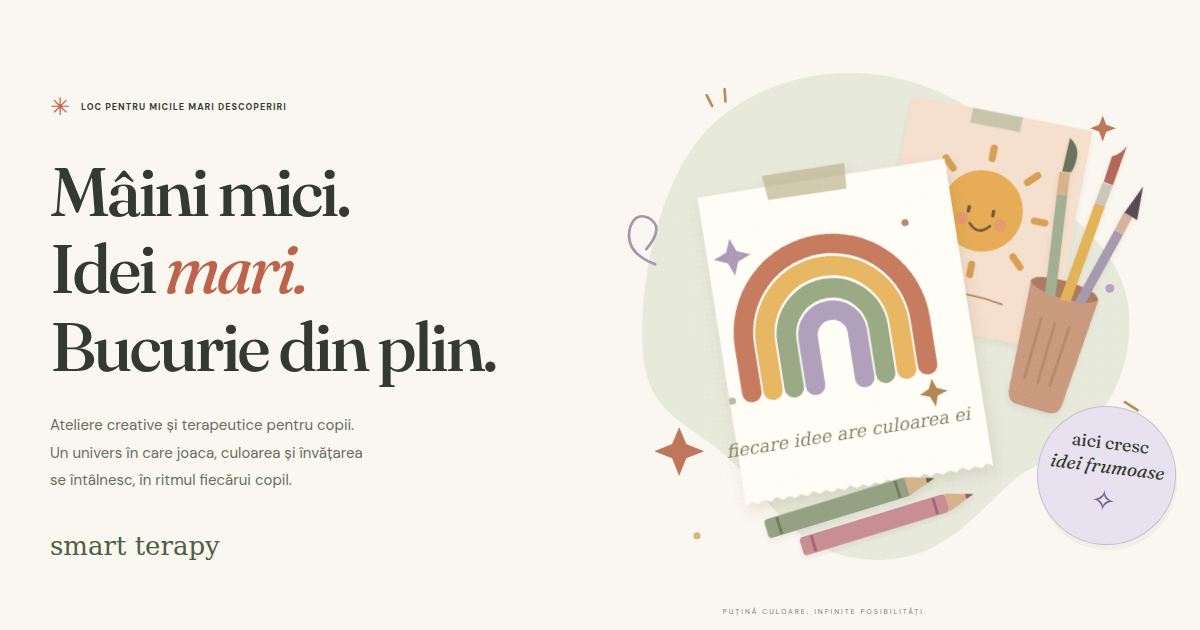
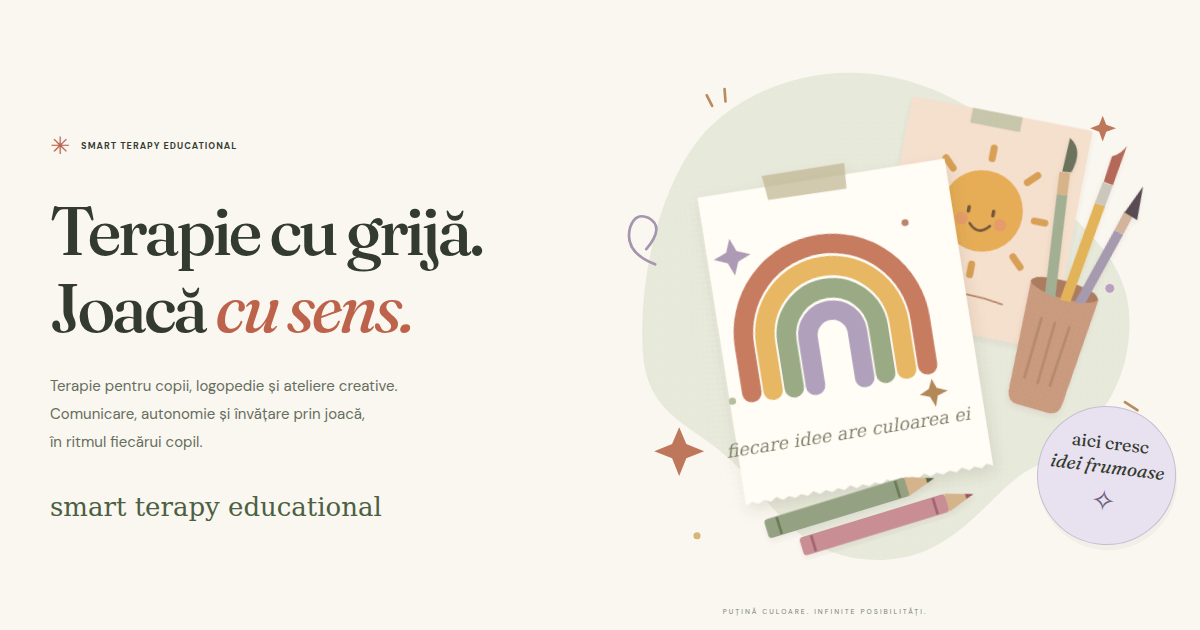
Add Educational branding and nine child therapy services

diff --git a/public/index.html b/public/index.html
@@ -4,10 +4,10 @@
   <meta charset="utf-8">
   <meta name="viewport" content="width=device-width, initial-scale=1">
   <meta name="theme-color" content="#faf7f0">
-  <title>Smart Terapy — Joacă, descoperă, creează.</title>
-  <meta name="description" content="Smart Terapy: ateliere creative și terapeutice pentru copii și activități educaționale pentru școli și grădinițe în programul Școala Altfel. Descoperă idei de ateliere și cere detalii.">
-  <meta property="og:title" content="Smart Terapy — Joacă, descoperă, creează.">
-  <meta property="og:description" content="O lume de culoare, curiozitate și idei mari. Ateliere pentru copii, părinți, școli și grădinițe.">
+  <title>Smart Terapy Educational — Terapie pentru copii și logopedie</title>
+  <meta name="description" content="Smart Terapy Educational: terapie pentru copii, logopedie, ABA, PECS și activități pentru dezvoltare. Ateliere creative și programe Școala Altfel pentru școli și grădinițe.">
+  <meta property="og:title" content="Smart Terapy Educational — Terapie pentru copii și logopedie">
+  <meta property="og:description" content="Terapie pentru copii, logopedie și învățare prin joacă. Descoperă serviciile Smart Terapy Educational și atelierele pentru copii.">
   <meta property="og:type" content="website">
   <meta property="og:url" content="https://mcapostol.github.io/smart-terapy-educational/">
   <meta property="og:image" content="https://mcapostol.github.io/smart-terapy-educational/assets/social-card.png">
@@ -19,24 +19,76 @@
 <body>
 <a class="skip-link" href="#main">Mergi la conținut</a>
 <header class="site-header">
-  <a class="brand" href="#" aria-label="Smart Terapy — Acasă"><img src="assets/instagram-profile.jpg" alt="" width="54" height="54"><span>smart <b>terapy</b><small>EDUCATIONAL · CREATIVE · PLAYFUL</small></span></a>
+  <a class="brand" href="#" aria-label="Smart Terapy Educational — Acasă"><img src="assets/instagram-profile.jpg" alt="" width="54" height="54"><span>smart <b>terapy</b> <small>educational</small></span></a>
   <button id="menu-toggle" class="menu-toggle" type="button" aria-expanded="false" aria-controls="site-nav" aria-label="Deschide meniul"><span></span><span></span></button>
-  <nav id="site-nav" aria-label="Navigare principală"><a href="#poveste">Povestea noastră</a><a href="#ateliere">Ateliere</a><a href="#scoala-altfel">Școala Altfel</a><a href="#tarife">Tarife</a><a class="button button-small" href="#contact">Hai să povestim <span aria-hidden="true">↗</span></a></nav>
+  <nav id="site-nav" aria-label="Navigare principală"><a href="#poveste">Despre noi</a><a href="#terapii">Terapii</a><a href="#ateliere">Ateliere</a><a href="#scoala-altfel">Școala Altfel</a><a href="#tarife">Tarife</a><a class="button button-small" href="#contact">Hai să povestim <span aria-hidden="true">↗</span></a></nav>
 </header>
 <main id="main">
 <section class="hero wrap" aria-labelledby="hero-title">
-  <div class="hero-copy"><p class="eyebrow"><span class="little-sun" aria-hidden="true">✳</span> LOC PENTRU MICILE MARI DESCOPERIRI</p>
-    <h1 id="hero-title">Mâini mici.<br>Idei <em>mari.</em><br>Bucurie din plin.</h1>
-    <p class="hero-description">Ateliere creative și terapeutice pentru copii.<br>Un univers în care joaca, culoarea și învățarea<br class="desktop-break"> se întâlnesc, în ritmul fiecărui copil.</p>
-    <div class="hero-actions"><a class="button" href="#ateliere">Descoperă atelierele <span aria-hidden="true">↗</span></a><a class="text-link" href="#scoala-altfel">Pentru școli și grădinițe <span aria-hidden="true">→</span></a></div>
+  <div class="hero-copy"><p class="eyebrow"><span class="little-sun" aria-hidden="true">✳</span> SMART TERAPY EDUCATIONAL</p>
+    <h1 id="hero-title">Terapie cu grijă.<br>Joacă <em>cu sens.</em></h1>
+    <p class="hero-description">Terapie pentru copii, logopedie și ateliere creative.<br>Comunicare, autonomie și învățare prin joacă,<br class="desktop-break"> în ritmul fiecărui copil.</p>
+    <div class="hero-actions"><a class="button" href="#terapii">Descoperă terapiile <span aria-hidden="true">↗</span></a><a class="text-link" href="#scoala-altfel">Pentru școli și grădinițe <span aria-hidden="true">→</span></a></div>
     <div class="hero-footnote"><span class="hand-heart" aria-hidden="true">♡</span><p>Mai multă curiozitate.<br><strong>Mai mult loc pentru a fi tu.</strong></p></div>
   </div>
   <div class="hero-art"><img src="assets/creative-world.svg" alt="Ilustrație: un soare vesel, un curcubeu, pensule și forme colorate pe masa de creație." width="680" height="680" fetchpriority="high"><span class="art-sticker">aici cresc<br><em>idei frumoase</em><span aria-hidden="true">✧</span></span><span class="art-caption">PUȚINĂ CULOARE. INFINITE POSIBILITĂȚI.</span></div>
 </section>
 <div class="values-ribbon" aria-label="Valorile atelierelor"><div class="wrap"><span>Joacă cu sens</span><i aria-hidden="true">✳</i><span>Curaj de a crea</span><i aria-hidden="true">✳</i><span>Emoții în culori</span><i aria-hidden="true">✳</i><span>Învățare prin descoperire</span></div></div>
 <section class="intro wrap section" id="poveste">
-  <div><p class="eyebrow">BUN VENIT LA SMART TERAPY</p><h2>Fiecare copil are<br>o lume de <em>exprimat.</em></h2></div>
-  <div class="intro-copy"><p>O pată de culoare poate fi începutul unei povești. O bucată de lut, o idee care prinde formă. Iar un joc, o ocazie de a descoperi ceva nou.</p><p>Smart Terapy aduce împreună ateliere creative și terapeutice pentru copii și activități educaționale pentru școli și grădinițe, inclusiv în programul <strong>„Școala Altfel”</strong>.</p><a class="text-link" href="https://www.instagram.com/smart_terapy_educational/" target="_blank" rel="noopener noreferrer">Cunoaște-ne pe Instagram <span aria-hidden="true">↗</span></a></div>
+  <div><p class="eyebrow">BUN VENIT LA SMART TERAPY EDUCATIONAL</p><h2>Fiecare copil are<br>o lume de <em>exprimat.</em></h2></div>
+  <div class="intro-copy"><p>O pată de culoare poate fi începutul unei povești. O bucată de lut, o idee care prinde formă. Iar un joc, o ocazie de a descoperi ceva nou.</p><p>Smart Terapy Educational aduce împreună <strong>terapia pentru copii, logopedia și învățarea prin joacă</strong>. Alături de serviciile de terapie, descoperim lumea prin ateliere creative și activități pentru școli și grădinițe, inclusiv în programul <strong>„Școala Altfel”</strong>.</p><a class="text-link" href="https://www.instagram.com/smart_terapy_educational/" target="_blank" rel="noopener noreferrer">Cunoaște-ne pe Instagram <span aria-hidden="true">↗</span></a></div>
+</section>
+<section class="therapies wrap section" id="terapii" aria-labelledby="therapies-title">
+  <div class="section-heading"><div><p class="eyebrow">SPRIJIN PENTRU FIECARE PAS</p><h2 id="therapies-title">Terapie pentru copii.<br><em>Cu grijă pentru cine sunt.</em></h2></div><p>Comunicare, autonomie, emoții și relații.<br>Servicii adaptate nevoilor fiecărui copil.</p></div>
+  <p class="therapy-intro">De la logopedie și comunicare prin imagini, la joacă, explorare senzorială și abilități sociale. Împreună cu echipa, discutăm nevoile copilului și pașii potriviți pentru el.</p>
+  <div class="therapy-grid">
+    <article class="therapy-card therapy-rose">
+      <div class="therapy-card-top"><span class="therapy-category">COMPORTAMENT & ÎNVĂȚARE</span><span class="therapy-number" aria-hidden="true">01</span></div>
+      <h3>ABA</h3><p class="therapy-fullname">Applied Behavior Analysis</p>
+      <p class="therapy-description">Abordare bazată pe analiza comportamentului și pe întărire pozitivă, pentru exersarea abilităților de comunicare, autonomie și învățare.</p>
+    </article>
+    <article class="therapy-card therapy-blush">
+      <div class="therapy-card-top"><span class="therapy-category">COMUNICARE PRIN IMAGINI</span><span class="therapy-number" aria-hidden="true">02</span></div>
+      <h3>PECS</h3><p class="therapy-fullname">Picture Exchange Communication System</p>
+      <p class="therapy-description">Comunicarea cu ajutorul imaginilor. Un sistem prin care copilul învață să folosească schimbul de imagini pentru a exprima cereri și a comunica.</p>
+    </article>
+    <article class="therapy-card therapy-lilac">
+      <div class="therapy-card-top"><span class="therapy-category">LIMBAJ & COMUNICARE</span><span class="therapy-number" aria-hidden="true">03</span></div>
+      <h3>Logopedia</h3>
+      <p class="therapy-description">Exerciții pentru înțelegerea și folosirea limbajului, vorbire și comunicare nonverbală, adaptate nevoilor de comunicare ale copilului.</p>
+    </article>
+    <article class="therapy-card therapy-aqua">
+      <div class="therapy-card-top"><span class="therapy-category">AUTONOMIE & COORDONARE</span><span class="therapy-number" aria-hidden="true">04</span></div>
+      <h3>Terapia ocupațională</h3>
+      <p class="therapy-description">Activități pentru deprinderi de zi cu zi, precum îmbrăcatul și îngrijirea personală, alături de exerciții de motricitate fină și coordonare.</p>
+    </article>
+    <article class="therapy-card therapy-blue">
+      <div class="therapy-card-top"><span class="therapy-category">SIMȚURI & EXPLORARE</span><span class="therapy-number" aria-hidden="true">05</span></div>
+      <h3>Terapia de integrare senzorială</h3>
+      <p class="therapy-description">Activități centrate pe felul în care copilul percepe și răspunde la stimuli precum lumina, sunetele și texturile, adaptate profilului său senzorial.</p>
+    </article>
+    <article class="therapy-card therapy-mint">
+      <div class="therapy-card-top"><span class="therapy-category">JOACĂ & CONECTARE</span><span class="therapy-number" aria-hidden="true">06</span></div>
+      <h3>Ludoterapia</h3>
+      <p class="therapy-description">Joacă structurată și ghidată de un terapeut, pentru exersarea abilităților de joc, de comunicare și de interacțiune socială.</p>
+    </article>
+    <article class="therapy-card therapy-sage">
+      <div class="therapy-card-top"><span class="therapy-category">EMOȚII & AUTOREGLARE</span><span class="therapy-number" aria-hidden="true">07</span></div>
+      <h3>Terapia cognitiv-comportamentală</h3>
+      <p class="therapy-description">Lucru asupra legăturii dintre gânduri, emoții și comportamente, cu strategii de autoreglare, gestionare a anxietății și rezolvare a problemelor.</p>
+    </article>
+    <article class="therapy-card therapy-green">
+      <div class="therapy-card-top"><span class="therapy-category">MUZICĂ & EXPRESIE</span><span class="therapy-number" aria-hidden="true">08</span></div>
+      <h3>Meloterapia și art-terapia</h3>
+      <p class="therapy-description">Muzica și expresia artistică devin modalități creative de explorare și exprimare a emoțiilor, de comunicare și de interacțiune.</p>
+    </article>
+    <article class="therapy-card therapy-yellow">
+      <div class="therapy-card-top"><span class="therapy-category">RELAȚII & COOPERARE</span><span class="therapy-number" aria-hidden="true">09</span></div>
+      <h3>Terapia de grup pentru abilități sociale</h3>
+      <p class="therapy-description">Interacțiuni ghidate cu alți copii și adulți, în care se exersează comunicarea, cooperarea și abilitățile sociale în situații de grup.</p>
+    </article>
+  </div>
+  <div class="therapy-next"><div><h3>De unde începem?</h3><p>Scrie-ne pentru o discuție inițială. Obiectivele, formatul, frecvența și tariful ședințelor se stabilesc direct cu echipa.</p></div><a class="button" href="https://www.instagram.com/smart_terapy_educational/" target="_blank" rel="noopener noreferrer">Discută cu echipa <span aria-hidden="true">↗</span></a></div>
 </section>
 <section class="workshops wrap section" id="ateliere">
   <div class="section-heading"><div><p class="eyebrow">MICILE MÂINI, ÎN ELEMENTUL LOR</p><h2>Ce creăm <em>împreună?</em></h2></div><p>Idei de ateliere pentru minți curioase.<br>Formatul se stabilește împreună cu echipa.</p></div>
@@ -49,12 +101,12 @@
 </section>
 <section class="school-section" id="scoala-altfel"><div class="wrap school-inner"><div class="school-art" aria-hidden="true"><span class="school-star">✳</span><div class="notebook"><span>o altfel de zi la școală</span><strong>Azi avem<br>oră de<br><em>curiozitate.</em></strong><div class="notebook-doodles">✎ <span>♡</span> ✧</div><small>mai puțin „trebuie”, mai mult „hai să încercăm!”</small></div><span class="pencil"></span></div><div class="school-copy"><p class="eyebrow">PENTRU ȘCOLI & GRĂDINIȚE</p><h2>Școala Altfel.<br><em>Chiar altfel.</em></h2><p>O zi în care întrebările sunt binevenite, mâinile sunt ocupate, iar imaginația are loc în orar.</p><p>Propunem ateliere creative adaptate temei clasei. Vârsta copiilor, materialele, locația și calendarul se discută cu echipa înainte de confirmare.</p><ul class="check-list"><li>Teme creative pentru grupul vostru</li><li>Propunere de activitate și materiale</li><li>Format discutat cu profesorul sau educatorul</li></ul><a class="button" href="#calculator">Calculează pentru clasa ta <span aria-hidden="true">↗</span></a></div></div></section>
 <section class="steps wrap section"><div class="section-heading"><div><p class="eyebrow">DE LA „NE-AR PLĂCEA” LA „HAI!”</p><h2>Totul începe cu <em>o conversație.</em></h2></div></div><div class="steps-grid"><article><span>01</span><h3>Ne spui ce vă doriți</h3><p>Alege o idee de atelier și spune-ne vârsta copiilor, numărul participanților și perioada.</p></article><article><span>02</span><h3>Găsim formula potrivită</h3><p>Echipa confirmă activitatea, locația, materialele necesare și oferta finală.</p></article><article><span>03</span><h3>Facem loc creativității</h3><p>După confirmarea directă a programării, aventura poate începe.</p></article></div></section>
-<section class="pricing-section" id="tarife"><div class="wrap section"><div class="section-heading"><div><p class="eyebrow">PLANURI MICI, CLARITATE MARE</p><h2>Loc pentru joacă.<br><em>Și în buget.</em></h2></div><p>O propunere de tarife simplă,<br>pentru a vă face o primă idee.</p></div><p class="pricing-notice"><strong>Tarife orientative propuse, neconfirmate de Smart Terapy.</strong> Programele și prețul final se stabilesc direct cu echipa. Valorile de mai jos nu reprezintă o ofertă fermă sau o rezervare.</p><div class="price-list"><article><div><span class="price-index">01</span><div><h3>Atelier creativ</h3><p>60 min · grup propus de 6–20 copii</p></div></div><p class="price"><strong>55</strong> lei <small>/ copil / atelier</small></p></article><article><div><span class="price-index">02</span><div><h3>Explorare senzorială & emoții</h3><p>60 min · grup propus de 6–20 copii</p></div></div><p class="price"><strong>60</strong> lei <small>/ copil / atelier</small></p></article><article class="featured-price"><div><span class="price-index">03</span><div><h3>Școala Altfel <span class="tag">PENTRU CLASE</span></h3><p>60 min · grup propus de 15–30 copii</p></div></div><p class="price"><strong>45</strong> lei <small>/ copil / atelier</small></p></article><article><div><span class="price-index">04</span><div><h3>Copil & părinte</h3><p>75 min · grup propus de 6–15 perechi</p></div></div><p class="price"><strong>85</strong> lei <small>/ pereche / atelier</small></p></article></div><p class="price-footnote">Propunerea include materialele creative de bază. Deplasarea, spațiul și cerințele speciale se cotează separat, dacă este cazul. Pentru 4 ateliere, calculatorul aplică o reducere propusă de 10%.</p>
-<div class="calculator" id="calculator"><div class="calculator-copy"><p class="eyebrow">HAI SĂ FACEM UN MIC CALCUL</p><h2>Atelierul vostru,<br><em>în câteva clicuri.</em></h2><p>Alege formatul și numărul de participanți. Vei obține o estimare și un mesaj de trimis echipei pe Instagram.</p><span class="calculator-flower" aria-hidden="true">✳</span><small>Alegerile se păstrează doar în acest browser.<br>Nu cerem datele copiilor.</small></div><div class="calculator-panel"><noscript><p>Calculatorul necesită JavaScript. Poți consulta tarifele de mai sus și contacta echipa direct pe Instagram.</p></noscript><form id="atelier-form"><label for="atelier-type">Ce v-ar plăcea să explorați?</label><select id="atelier-type" name="type"><option value="creativ">Micul atelier de creație</option><option value="senzorial">Explorare senzorială & emoții</option><option value="scoala">Școala Altfel</option><option value="parinte">Copil & părinte</option></select><div class="form-row"><div><label for="participants">Participanți / perechi</label><input id="participants" name="participants" type="number" min="6" max="20" step="1" value="12" required inputmode="numeric" aria-describedby="estimate-error"></div><div><label for="sessions">Câte ateliere?</label><select id="sessions" name="sessions"><option value="1">1 atelier</option><option value="4">4 ateliere (−10%)</option></select></div></div><p id="estimate-error" class="form-error" role="alert"></p></form><div class="estimate" aria-live="polite" aria-atomic="true"><span>TOTAL ORIENTATIV</span><strong id="estimate-total">660 lei</strong><p id="estimate-unit">55 lei / copil / atelier</p><small id="estimate-summary">12 copii · 1 atelier</small></div><details class="message-preview"><summary>Vezi mesajul pentru echipă</summary><label class="sr-only" for="request-message">Mesaj de copiat pentru Instagram</label><textarea id="request-message" readonly rows="7">Bună! Mă interesează un atelier creativ pentru 12 copii. Aș dori să discutăm detaliile și oferta finală.</textarea></details><div class="calculator-actions"><button id="copy-request" type="button" class="button">1. Copiază mesajul <span aria-hidden="true">⧉</span></button><a id="instagram-request" class="button button-outline" href="https://www.instagram.com/smart_terapy_educational/" target="_blank" rel="noopener noreferrer">2. Deschide Instagram <span aria-hidden="true">↗</span></a></div><p id="copy-status" class="copy-status" role="status"></p><p class="estimate-disclaimer">Mesajul nu se trimite automat. Lipește-l în conversația cu echipa. Programarea și tariful devin valabile numai după confirmarea acesteia.</p></div></div>
+<section class="pricing-section" id="tarife"><div class="wrap section"><div class="section-heading"><div><p class="eyebrow">TARIFE PENTRU ATELIERE</p><h2>Loc pentru joacă.<br><em>Și în buget.</em></h2></div><p>Estimări pentru activitățile creative.<br>Tarifele de terapie se discută cu echipa.</p></div><p class="pricing-notice"><strong>Tarife orientative propuse, neconfirmate de Smart Terapy Educational.</strong> Programele și prețul final se stabilesc direct cu echipa. Valorile de mai jos nu reprezintă o ofertă fermă sau o rezervare.</p><div class="price-list"><article><div><span class="price-index">01</span><div><h3>Atelier creativ</h3><p>60 min · grup propus de 6–20 copii</p></div></div><p class="price"><strong>55</strong> lei <small>/ copil / atelier</small></p></article><article><div><span class="price-index">02</span><div><h3>Explorare senzorială & emoții</h3><p>60 min · grup propus de 6–20 copii</p></div></div><p class="price"><strong>60</strong> lei <small>/ copil / atelier</small></p></article><article class="featured-price"><div><span class="price-index">03</span><div><h3>Școala Altfel <span class="tag">PENTRU CLASE</span></h3><p>60 min · grup propus de 15–30 copii</p></div></div><p class="price"><strong>45</strong> lei <small>/ copil / atelier</small></p></article><article><div><span class="price-index">04</span><div><h3>Copil & părinte</h3><p>75 min · grup propus de 6–15 perechi</p></div></div><p class="price"><strong>85</strong> lei <small>/ pereche / atelier</small></p></article></div><p class="price-footnote">Propunerea include materialele creative de bază. Deplasarea, spațiul și cerințele speciale se cotează separat, dacă este cazul. Pentru 4 ateliere, calculatorul aplică o reducere propusă de 10%.</p>
+<div class="calculator" id="calculator"><div class="calculator-copy"><p class="eyebrow">HAI SĂ FACEM UN MIC CALCUL</p><h2>Atelierul vostru,<br><em>în câteva clicuri.</em></h2><p>Alege formatul și numărul de participanți la atelier. Vei obține o estimare și un mesaj de trimis echipei pe Instagram.</p><span class="calculator-flower" aria-hidden="true">✳</span><small>Alegerile se păstrează doar în acest browser.<br>Nu cerem datele copiilor.</small></div><div class="calculator-panel"><noscript><p>Calculatorul necesită JavaScript. Poți consulta tarifele de mai sus și contacta echipa direct pe Instagram.</p></noscript><form id="atelier-form"><label for="atelier-type">Ce v-ar plăcea să explorați?</label><select id="atelier-type" name="type"><option value="creativ">Micul atelier de creație</option><option value="senzorial">Explorare senzorială & emoții</option><option value="scoala">Școala Altfel</option><option value="parinte">Copil & părinte</option></select><div class="form-row"><div><label for="participants">Participanți / perechi</label><input id="participants" name="participants" type="number" min="6" max="20" step="1" value="12" required inputmode="numeric" aria-describedby="estimate-error"></div><div><label for="sessions">Câte ateliere?</label><select id="sessions" name="sessions"><option value="1">1 atelier</option><option value="4">4 ateliere (−10%)</option></select></div></div><p id="estimate-error" class="form-error" role="alert"></p></form><div class="estimate" aria-live="polite" aria-atomic="true"><span>TOTAL ORIENTATIV</span><strong id="estimate-total">660 lei</strong><p id="estimate-unit">55 lei / copil / atelier</p><small id="estimate-summary">12 copii · 1 atelier</small></div><details class="message-preview"><summary>Vezi mesajul pentru echipă</summary><label class="sr-only" for="request-message">Mesaj de copiat pentru Instagram</label><textarea id="request-message" readonly rows="7">Bună! Mă interesează un atelier creativ pentru 12 copii. Aș dori să discutăm detaliile și oferta finală.</textarea></details><div class="calculator-actions"><button id="copy-request" type="button" class="button">1. Copiază mesajul <span aria-hidden="true">⧉</span></button><a id="instagram-request" class="button button-outline" href="https://www.instagram.com/smart_terapy_educational/" target="_blank" rel="noopener noreferrer">2. Deschide Instagram <span aria-hidden="true">↗</span></a></div><p id="copy-status" class="copy-status" role="status"></p><p class="estimate-disclaimer">Mesajul nu se trimite automat. Lipește-l în conversația cu echipa. Programarea și tariful devin valabile numai după confirmarea acesteia.</p></div></div>
 </div></section>
-<section class="faq wrap section"><div><p class="eyebrow">POATE TE ÎNTREBI…</p><h2>Curiozități<br><em>firești.</em></h2><p>Ai o altă întrebare?<br>Ne găsești pe Instagram.</p></div><div class="faq-items"><details><summary>Pentru ce vârste sunt atelierele?<span aria-hidden="true">+</span></summary><p>Activitățile se pot gândi diferit pentru preșcolari și școlari. Spune echipei vârstele copiilor, pentru a confirma un format și materiale potrivite grupului.</p></details><details><summary>Unde au loc activitățile?<span aria-hidden="true">+</span></summary><p>Locația și aria de deplasare se confirmă direct cu Smart Terapy. Pentru o activitate în școală sau grădiniță, include localitatea și spațiul disponibil în mesaj.</p></details><details><summary>Ce înseamnă „ateliere terapeutice”?<span aria-hidden="true">+</span></summary><p>Aceasta este denumirea folosită în prezentarea Smart Terapy de pe Instagram. Atelierele propuse aici sunt activități creative și educaționale; site-ul nu prezintă servicii clinice și nu promite rezultate medicale. Întreabă echipa despre formatul și calificările relevante pentru nevoile copilului.</p></details><details><summary>Prețul din calculator este cel final?<span aria-hidden="true">+</span></summary><p>Nu. Este un calcul pe baza unor tarife propuse, încă neconfirmate de Smart Terapy. Echipa va confirma disponibilitatea, ce include activitatea și costul final înainte de programare.</p></details><details><summary>Cum fac o programare?<span aria-hidden="true">+</span></summary><p>Copiază mesajul din calculator sau scrie direct contului @smart_terapy_educational pe Instagram. Adaugă perioada dorită, vârsta participanților și localitatea. Nu trimite informații medicale sau date sensibile în cererea inițială.</p></details></div></section>
-<section class="contact-section wrap" id="contact"><span class="contact-flower" aria-hidden="true">✳</span><p class="eyebrow">O IDEE FRUMOASĂ ÎNCEPE CU „BUNĂ!”</p><h2>Facem loc unei noi<br><em>aventuri creative?</em></h2><p>Pentru copilul tău, pentru clasa ta sau pentru un pic de timp împreună.<br>Scrie-ne și hai să vedem ce putem crea.</p><a class="button" href="https://www.instagram.com/smart_terapy_educational/" target="_blank" rel="noopener noreferrer">Scrie-ne pe Instagram <span aria-hidden="true">↗</span></a><a class="instagram-handle" href="https://www.instagram.com/smart_terapy_educational/" target="_blank" rel="noopener noreferrer">@smart_terapy_educational</a></section>
+<section class="faq wrap section"><div><p class="eyebrow">POATE TE ÎNTREBI…</p><h2>Curiozități<br><em>firești.</em></h2><p>Ai o altă întrebare?<br>Ne găsești pe Instagram.</p></div><div class="faq-items"><details><summary>Pentru ce vârste sunt atelierele?<span aria-hidden="true">+</span></summary><p>Activitățile se pot gândi diferit pentru preșcolari și școlari. Spune echipei vârstele copiilor, pentru a confirma un format și materiale potrivite grupului.</p></details><details><summary>Unde au loc activitățile?<span aria-hidden="true">+</span></summary><p>Locația și aria de deplasare se confirmă direct cu Smart Terapy Educational. Pentru o activitate în școală sau grădiniță, include localitatea și spațiul disponibil în mesaj.</p></details><details><summary>Cum alegem terapia potrivită copilului?<span aria-hidden="true">+</span></summary><p>Primul pas este o discuție cu echipa despre nevoile copilului. Obiectivele, tipul intervenției și frecvența ședințelor se stabilesc individual. În secțiunea <a href="#terapii">Terapii</a> găsești toate cele nouă servicii prezentate.</p></details><details><summary>Calculatorul include și ședințele de terapie?<span aria-hidden="true">+</span></summary><p>Calculatorul este destinat atelierelor creative și programelor de grup, pe baza unor tarife orientative propuse. Pentru terapie și logopedie, cere direct echipei detalii despre ședințe și tarife. Disponibilitatea și prețul final se confirmă înainte de programare.</p></details><details><summary>Cum fac o programare?<span aria-hidden="true">+</span></summary><p>Pentru terapie, scrie direct echipei. Pentru ateliere, poți copia și mesajul din calculator. Ne găsești la contul @smart_terapy_educational pe Instagram. Adaugă perioada dorită, vârsta participanților și localitatea. Nu trimite informații medicale sau date sensibile în cererea inițială.</p></details></div></section>
+<section class="contact-section wrap" id="contact"><span class="contact-flower" aria-hidden="true">✳</span><p class="eyebrow">PRIMUL PAS ÎNCEPE CU „BUNĂ!”</p><h2>Fiecare pas contează.<br><em>Îl facem împreună?</em></h2><p>Pentru terapie, logopedie sau un atelier plin de curiozitate.<br>Scrie-ne și povestește-ne ce vă doriți pentru copilul sau grupul vostru.</p><a class="button" href="https://www.instagram.com/smart_terapy_educational/" target="_blank" rel="noopener noreferrer">Scrie-ne pe Instagram <span aria-hidden="true">↗</span></a><a class="instagram-handle" href="https://www.instagram.com/smart_terapy_educational/" target="_blank" rel="noopener noreferrer">@smart_terapy_educational</a></section>
 </main>
-<footer class="wrap"><a class="footer-brand" href="#">smart <b>terapy</b><span>Joacă. Descoperă. Creează.</span></a><div><p>Ateliere creative și terapeutice pentru copii.<br>Activități educaționale pentru școli și grădinițe.</p><a href="https://www.instagram.com/smart_terapy_educational/" target="_blank" rel="noopener noreferrer">Instagram ↗</a></div><div class="footer-bottom"><span>© 2026 Smart Terapy</span><span>Cu loc pentru fiecare idee.</span><a href="confidentialitate.html">Confidențialitate</a></div></footer>
+<footer class="wrap"><a class="footer-brand" href="#">smart <b>terapy</b> <small class="brand-educational">educational</small><span>Terapie. Comunicare. Joacă.</span></a><div><p>Terapie pentru copii, logopedie și ateliere creative.<br>Activități educaționale pentru școli și grădinițe.</p><a href="https://www.instagram.com/smart_terapy_educational/" target="_blank" rel="noopener noreferrer">Instagram ↗</a></div><div class="footer-bottom"><span>© 2026 Smart Terapy Educational</span><span>Cu loc pentru fiecare idee.</span><a href="confidentialitate.html">Confidențialitate</a></div></footer>
 </body>
 </html>

diff --git a/public/styles.css b/public/styles.css
@@ -4,3 +4,22 @@
 @media(max-width:900px){.site-header{padding:20px 28px}.menu-toggle{display:flex;flex-direction:column;justify-content:center;gap:6px;border:1px solid #cbd0c1;background:transparent;border-radius:5px;width:43px;height:43px;padding:11px}.menu-toggle span{display:block;height:2px;background:var(--ink);width:19px}nav{position:absolute;top:100%;left:0;right:0;display:none;flex-direction:column;align-items:stretch;background:var(--paper);padding:20px 28px;box-shadow:0 12px 20px #333b3012;border-bottom:1px solid var(--line);gap:4px;font-size:14px}nav a{padding:10px 0}nav .button{margin-top:8px}nav.is-open,nav[data-open="true"],.menu-toggle[aria-expanded="true"]+nav{display:flex}.wrap{width:calc(100% - 56px)}h1{font-size:56px}.hero .eyebrow{font-size:8px;letter-spacing:.06em}.hero-art{width:112%;margin-left:-7%}.art-sticker{width:110px;height:110px;font-size:15px;right:4%}.art-sticker em{font-size:16px}.art-sticker>span{font-size:23px}.hero-description{font-size:13px}.hero-actions{flex-direction:column;align-items:start;gap:18px}.values-ribbon>.wrap{font-size:16px;gap:12px}.values-ribbon i{font-size:17px}.section{padding-block:70px}.intro{gap:50px;padding-bottom:10px}.intro-copy{font-size:13px}.workshop-grid{gap:14px}.card-body{padding:20px 15px 15px}.card-body h3{font-size:22px}.card-body>p{font-size:12px;min-height:90px}.card-art{height:170px;padding-inline:10px}.card-bottom{font-size:9px}.section-heading{gap:30px}.school-inner{gap:45px;padding-block:70px}.school-art{padding:0}.notebook{padding:35px 25px 22px 27px;min-height:350px}.notebook>strong{font-size:39px}.notebook>span{font-size:9px}.notebook small{font-size:7px}.school-star{font-size:75px;top:-35px;left:-16px}.pencil{right:-17px}.steps-grid{gap:30px}.steps-grid h3{font-size:17px}.calculator{gap:50px}.calculator-panel{padding:23px}.price-list article{padding:22px 13px}.price-list article>div{gap:18px}.price small{display:block;text-align:right}.featured-price .tag{display:block;width:fit-content;margin:7px 0 0}.faq{gap:60px}.contact-section h2{font-size:48px}.contact-flower{font-size:65px;top:25px;right:5%}}
 @media(max-width:650px){html{scroll-padding-top:25px}.wrap{width:calc(100% - 40px)}.site-header{padding:17px 20px}.brand>span{font-size:26px}.brand small{font-size:5px}.brand img{width:43px;height:43px}.hero{grid-template-columns:1fr;padding-top:35px;padding-bottom:25px;gap:5px}.hero .eyebrow{font-size:8px;letter-spacing:.08em;margin-bottom:18px}.little-sun{font-size:23px}h1{font-size:clamp(48px,12vw,68px);margin-bottom:21px;letter-spacing:-.05em}.hero-description{font-size:14px;line-height:1.85;margin-bottom:23px}.desktop-break{display:none}.hero-actions{flex-direction:row;align-items:center;gap:20px}.hero-actions .button{font-size:12px;padding:15px 18px;gap:22px}.hero-actions .text-link{font-size:10px;gap:8px}.hero-footnote{margin-top:24px}.hero-footnote p{font-size:10px}.hero-art{width:100%;max-width:480px;margin:-8px auto 0}.hero-art img{width:100%}.art-caption{font-size:6px;left:18%;bottom:3%}.art-sticker{right:1%;bottom:14%;width:104px;height:104px}.values-ribbon>.wrap{display:grid;grid-template-columns:1fr 20px 1fr;padding-block:19px;gap:11px;text-align:center;font-size:16px}.values-ribbon i:nth-of-type(2){display:none}.values-ribbon i:nth-of-type(3){grid-column:2;grid-row:2}.values-ribbon span:last-child{font-size:15px}.section{padding-block:58px}h2{font-size:37px;letter-spacing:-.045em}.eyebrow{font-size:8px;margin-bottom:16px;letter-spacing:.14em}.intro{grid-template-columns:1fr;gap:8px;padding-bottom:5px}.intro-copy{font-size:14px}.intro h2{margin-bottom:18px}.intro-copy p{margin-bottom:15px}.section-heading{display:block;margin-bottom:18px}.section-heading>p{font-size:13px;margin-top:18px}.workshop-grid{grid-template-columns:1fr;gap:22px}.proposal-note{font-size:10px;line-height:1.7;margin-bottom:23px}.card-art{height:220px}.card-art svg{max-width:300px;display:block;margin:auto}.card-body{padding:23px}.card-body h3{font-size:27px;margin-block:12px}.card-body>p{min-height:0;font-size:14px}.tag{font-size:9px}.card-bottom{font-size:11px}.card-bottom a{width:39px;height:39px}.school-inner{grid-template-columns:1fr;gap:58px;padding-block:65px}.school-art{width:84%;max-width:350px;margin:auto}.notebook{padding:36px 30px;min-height:365px}.notebook>strong{font-size:46px}.notebook>span{font-size:10px}.notebook small{font-size:8px}.school-star{font-size:85px;left:-22px;top:-40px}.pencil{right:-9px}.school-copy>p:not(.eyebrow){font-size:14px}.steps-grid{grid-template-columns:1fr;gap:25px;margin-top:28px}.steps-grid article{position:relative;padding-left:54px;padding-top:23px}.steps-grid article>span{position:absolute;left:0;top:15px;font-size:28px}.steps-grid h3{font-size:19px;margin-top:0;margin-bottom:10px}.steps-grid p{font-size:13px}.pricing-notice{font-size:11px;margin:23px 0}.price-list article{padding:22px 6px;gap:12px;align-items:start}.price-list article>div{gap:10px}.price-index{font-size:9px;margin-top:5px}.price-list h3{font-size:15px;max-width:180px}.price-list article div p{font-size:10px;max-width:175px}.price{font-size:12px;min-width:93px;text-align:right;line-height:1.3}.price strong{font-size:31px}.price small{font-size:9px;margin:4px 0 0}.featured-price .tag{font-size:6px}.price-footnote{font-size:10px}.calculator{grid-template-columns:1fr;gap:24px;margin-top:50px;padding-top:43px}.calculator-copy{position:relative}.calculator-copy h2{font-size:37px}.calculator-copy>p:not(.eyebrow){max-width:295px;font-size:13px}.calculator-flower{position:absolute;right:0;top:45px;font-size:62px;margin:0;opacity:.5;pointer-events:none}.calculator-copy>small{font-size:10px}.calculator-panel{padding:23px 20px}.form-row{gap:12px}.calculator-panel label{font-size:10px}.estimate>strong{font-size:47px}.calculator-actions .button{font-size:12px}.faq{grid-template-columns:1fr;gap:17px}.faq h2 br{display:block}.faq h2{margin-bottom:15px}.faq>div>p:not(.eyebrow){font-size:12px}.faq-items summary{font-size:13px;padding:20px 0}.faq-items details p{font-size:12px;padding-right:15px}.contact-section{padding:54px 20px}.contact-section h2{font-size:38px;position:relative}.contact-section .eyebrow{font-size:7px;position:relative}.contact-section>p:not(.eyebrow){font-size:12px;position:relative}.contact-section>p br{display:none}.contact-flower{font-size:74px;right:-23px;top:8px;opacity:.5}.contact-section .button{font-size:12px;padding:15px 19px}.instagram-handle{font-size:9px}footer{grid-template-columns:1fr;gap:24px;padding-top:43px}.footer-brand{font-size:29px}.footer-bottom{gap:13px;flex-wrap:wrap;font-size:8px;padding-top:18px}.footer-bottom>a{font-size:8px}.footer-bottom>span:nth-child(2){display:none}.privacy h1{font-size:39px}.privacy{padding-block:45px}.privacy h2{font-size:27px}}
 @media(prefers-reduced-motion:reduce){html{scroll-behavior:auto}*,*:before,*:after{transition:none!important;animation:none!important}}
+
+/* Brand and child-therapy services. Cards stay content-sized at every width. */
+.brand small,.brand-educational{display:block;font-family:var(--sans);font-size:11px;font-weight:600;letter-spacing:.22em;line-height:1.3;margin-top:5px;text-transform:lowercase}
+.brand-educational{font-size:12px}.brand>span{flex-shrink:0}.site-header nav{gap:24px}
+.therapies{padding-bottom:45px}.therapy-intro{font-size:15px;color:var(--muted);max-width:760px;margin-bottom:32px}
+.therapy-grid{display:grid;grid-template-columns:repeat(3,minmax(0,1fr));gap:22px}
+.therapy-card{--therapy-tone:#e9d9e1;display:flex;flex-direction:column;padding:26px;border:1px solid var(--line);border-top:5px solid var(--therapy-tone);border-radius:9px;background:#fffdf7;min-width:0}
+.therapy-card-top{display:flex;justify-content:space-between;align-items:center;gap:12px;margin-bottom:27px}.therapy-category{font-size:8px;letter-spacing:.1em;font-weight:700;color:#626b58;line-height:1.6}.therapy-number{display:grid;place-items:center;width:32px;height:32px;border-radius:50%;background:var(--therapy-tone);font-family:var(--serif);font-size:14px;flex-shrink:0}
+.therapy-card h3{font-family:var(--serif);font-size:27px;font-weight:500;line-height:1.2;letter-spacing:-.025em;margin:0 0 16px;overflow-wrap:anywhere}
+.therapy-fullname{font-size:11px;font-weight:600;line-height:1.6;margin:-7px 0 16px;color:var(--muted)}
+.therapy-description{font-size:14px;line-height:1.85;color:var(--muted);margin:0;overflow-wrap:break-word}
+.therapy-rose{--therapy-tone:#edcbd8}.therapy-blush{--therapy-tone:#f0dce4}.therapy-lilac{--therapy-tone:#dfd3e8}.therapy-aqua{--therapy-tone:#d4e8e6}.therapy-blue{--therapy-tone:#d4e2ef}.therapy-mint{--therapy-tone:#dcebd7}.therapy-sage{--therapy-tone:#dbe4ca}.therapy-green{--therapy-tone:#e0e8d3}.therapy-yellow{--therapy-tone:#f1e8ba}
+.therapy-next{display:flex;align-items:center;justify-content:space-between;gap:40px;padding:29px 32px;margin-top:26px;background:var(--sage);border-radius:8px}.therapy-next h3{font-family:var(--serif);font-size:25px;font-weight:500;margin-bottom:8px}.therapy-next p{max-width:690px;font-size:13px;color:var(--muted);margin:0}.therapy-next .button{flex-shrink:0}
+.faq-items a{text-decoration:underline;text-underline-offset:3px}
+@media(max-width:1150px){.site-header nav{gap:17px}.therapy-card{padding:23px}.therapy-card h3{font-size:25px}.therapy-next{gap:26px}}
+@media(max-width:1000px){.therapy-grid{grid-template-columns:repeat(2,minmax(0,1fr))}.therapy-card h3{font-size:27px}.therapy-card:last-child{grid-column:1/-1}.therapy-card:last-child .therapy-description{max-width:700px}}
+@media(max-width:900px){.site-header nav{gap:4px}.therapy-next{align-items:flex-start;flex-direction:column;gap:22px}}
+@media(max-width:650px){.brand small,.brand-educational{font-size:10px}.therapy-grid{grid-template-columns:minmax(0,1fr);gap:18px}.therapy-card{padding:23px}.therapy-card-top{margin-bottom:21px}.therapy-card h3{font-size:28px;line-height:1.2}.therapy-category{font-size:8px}.therapy-description{font-size:14px}.therapy-intro{font-size:14px;margin-bottom:25px}.therapy-next{padding:25px 23px;gap:22px}.therapy-next .button{max-width:100%;width:100%;gap:20px}.therapies{padding-bottom:18px}.site-header>.footer-brand{font-size:26px}.site-header>.text-link{font-size:11px;max-width:112px;text-align:right}}
+.skip-link:not(:focus){clip-path:inset(50%)}

diff --git a/public/confidentialitate.html b/public/confidentialitate.html
@@ -1,1 +1,1 @@
-<!doctype html><html lang="ro"><head><meta charset="utf-8"><meta name="viewport" content="width=device-width, initial-scale=1"><title>Confidențialitate — Smart Terapy</title><meta name="robots" content="noindex"><link rel="icon" href="assets/favicon.svg"><link rel="stylesheet" href="styles.css"></head><body><header class="site-header"><a class="footer-brand" href="./">smart <b>terapy</b></a><a class="text-link" href="./">Înapoi la site ←</a></header><main class="wrap privacy"><p class="eyebrow">DESPRE ACEST SITE</p><h1>Confidențialitate</h1><p>Acest site de prezentare nu are conturi, formulare de colectare a datelor personale, instrumente de analiză a vizitelor sau reclame. Nu folosește cookie-uri proprii.</p><h2>Calculatorul de ateliere</h2><p>Tipul atelierului, numărul participanților și numărul ședințelor pot fi păstrate în stocarea locală a browserului (localStorage), pentru a fi regăsite la următoarea vizită. Aceste alegeri rămân pe dispozitiv și nu sunt trimise echipei. Le poți șterge din setările browserului, prin ștergerea datelor acestui site.</p><h2>Contactul prin Instagram</h2><p>Butoanele de contact deschid contul public Smart Terapy pe Instagram. Mesajul din calculator se copiază numai la acționarea butonului și nu se trimite automat. Dacă alegi să contactezi echipa pe Instagram, se aplică politicile platformei și ale operatorului contului.</p><h2>Găzduire și resurse</h2><p>Site-ul este găzduit pe GitHub Pages. Furnizorul de găzduire poate procesa date tehnice, precum adresa IP, pentru a livra paginile și a asigura funcționarea serviciului. Fonturile și ilustrațiile sunt găzduite împreună cu site-ul; nu sunt încărcate încorporări Instagram.</p><h2>Întrebări</h2><p>Pentru întrebări legate de activități sau de mesajele trimise echipei, contactează <a class="text-link" href="https://www.instagram.com/smart_terapy_educational/" target="_blank" rel="noopener noreferrer">@smart_terapy_educational ↗</a>.</p><p>Actualizat: 28 octombrie 2026.</p></main></body></html>
+<!doctype html><html lang="ro"><head><meta charset="utf-8"><meta name="viewport" content="width=device-width, initial-scale=1"><title>Confidențialitate — Smart Terapy Educational</title><meta name="robots" content="noindex"><link rel="icon" href="assets/favicon.svg"><link rel="stylesheet" href="styles.css"></head><body><header class="site-header"><a class="footer-brand" href="./">smart <b>terapy</b> <small class="brand-educational">educational</small></a><a class="text-link" href="./">Înapoi la site ←</a></header><main class="wrap privacy"><p class="eyebrow">DESPRE ACEST SITE</p><h1>Confidențialitate</h1><p>Acest site de prezentare nu are conturi, formulare de colectare a datelor personale, instrumente de analiză a vizitelor sau reclame. Nu folosește cookie-uri proprii.</p><h2>Calculatorul de ateliere</h2><p>Tipul atelierului, numărul participanților și numărul ședințelor pot fi păstrate în stocarea locală a browserului (localStorage), pentru a fi regăsite la următoarea vizită. Aceste alegeri rămân pe dispozitiv și nu sunt trimise echipei. Le poți șterge din setările browserului, prin ștergerea datelor acestui site.</p><h2>Contactul prin Instagram</h2><p>Butoanele de contact deschid contul public Smart Terapy Educational pe Instagram. Mesajul din calculator se copiază numai la acționarea butonului și nu se trimite automat. Dacă alegi să contactezi echipa pe Instagram, se aplică politicile platformei și ale operatorului contului.</p><h2>Găzduire și resurse</h2><p>Site-ul este găzduit pe GitHub Pages. Furnizorul de găzduire poate procesa date tehnice, precum adresa IP, pentru a livra paginile și a asigura funcționarea serviciului. Fonturile și ilustrațiile sunt găzduite împreună cu site-ul; nu sunt încărcate încorporări Instagram.</p><h2>Întrebări</h2><p>Pentru întrebări legate de activități sau de mesajele trimise echipei, contactează <a class="text-link" href="https://www.instagram.com/smart_terapy_educational/" target="_blank" rel="noopener noreferrer">@smart_terapy_educational ↗</a>.</p><p>Actualizat: 28 octombrie 2026.</p></main></body></html>

diff --git a/README.md b/README.md
@@ -1,12 +1,14 @@
-# Smart Terapy
+# Smart Terapy Educational
 
-Site de prezentare în limba română pentru Smart Terapy, cu publicare pe GitHub Pages.
+Site de prezentare în limba română pentru Smart Terapy Educational, cu publicare pe GitHub Pages.
 
 ## Conținut și proveniență
 
 Numele **Smart Terapy** și activitățile generale (ateliere creative și terapeutice pentru copii, activități educaționale pentru școli și grădinițe în programul Școala Altfel) provin din metadatele publice ale [profilului Instagram](https://www.instagram.com/smart_terapy_educational/), consultat la 28 octombrie 2026. Fotografia de profil provine din același cont; nu sunt folosite fotografii ale unor copii. Ilustrațiile site-ului sunt originale, vectoriale. Fonturile DM Sans și Fraunces sunt distribuite cu licențele OFL incluse în `public/assets`.
 
-Oferta detaliată este o **propunere comercială**, etichetată explicit pe site, nu o listă de servicii sau prețuri confirmate de client. Nu au fost inventate calificări, recenzii, adrese, telefoane ori rezultate terapeutice.
+Numele complet **Smart Terapy Educational** și cele nouă servicii de terapie au fost precizate ulterior de client, prin imaginea furnizată în conversație: ABA (Applied Behavior Analysis), PECS (Picture Exchange Communication System), logopedie, terapie ocupațională, terapie de integrare senzorială, ludoterapie, terapie cognitiv-comportamentală, meloterapie și art-terapie, terapie de grup pentru abilități sociale. Acestea sunt prezentate în secțiunea `#terapii`, cu descrieri concise și fără promisiuni de rezultate. Formulările generale au fost verificate și față de [prezentarea CDC a tipurilor de intervenții](https://www.cdc.gov/autism/treatment/index.html). Nu au fost inventate calificări, recenzii, adrese, telefoane ori rezultate terapeutice.
+
+Oferta detaliată de **ateliere creative** și tarifele aferente rămân o **propunere comercială**, etichetată explicit pe site. Calculatorul privește exclusiv aceste ateliere. Tarifele ședințelor de terapie și logopedie se comunică direct de echipă.
 
 | Program propus | Tarif propus | Format propus |
 | --- | --- | --- |
